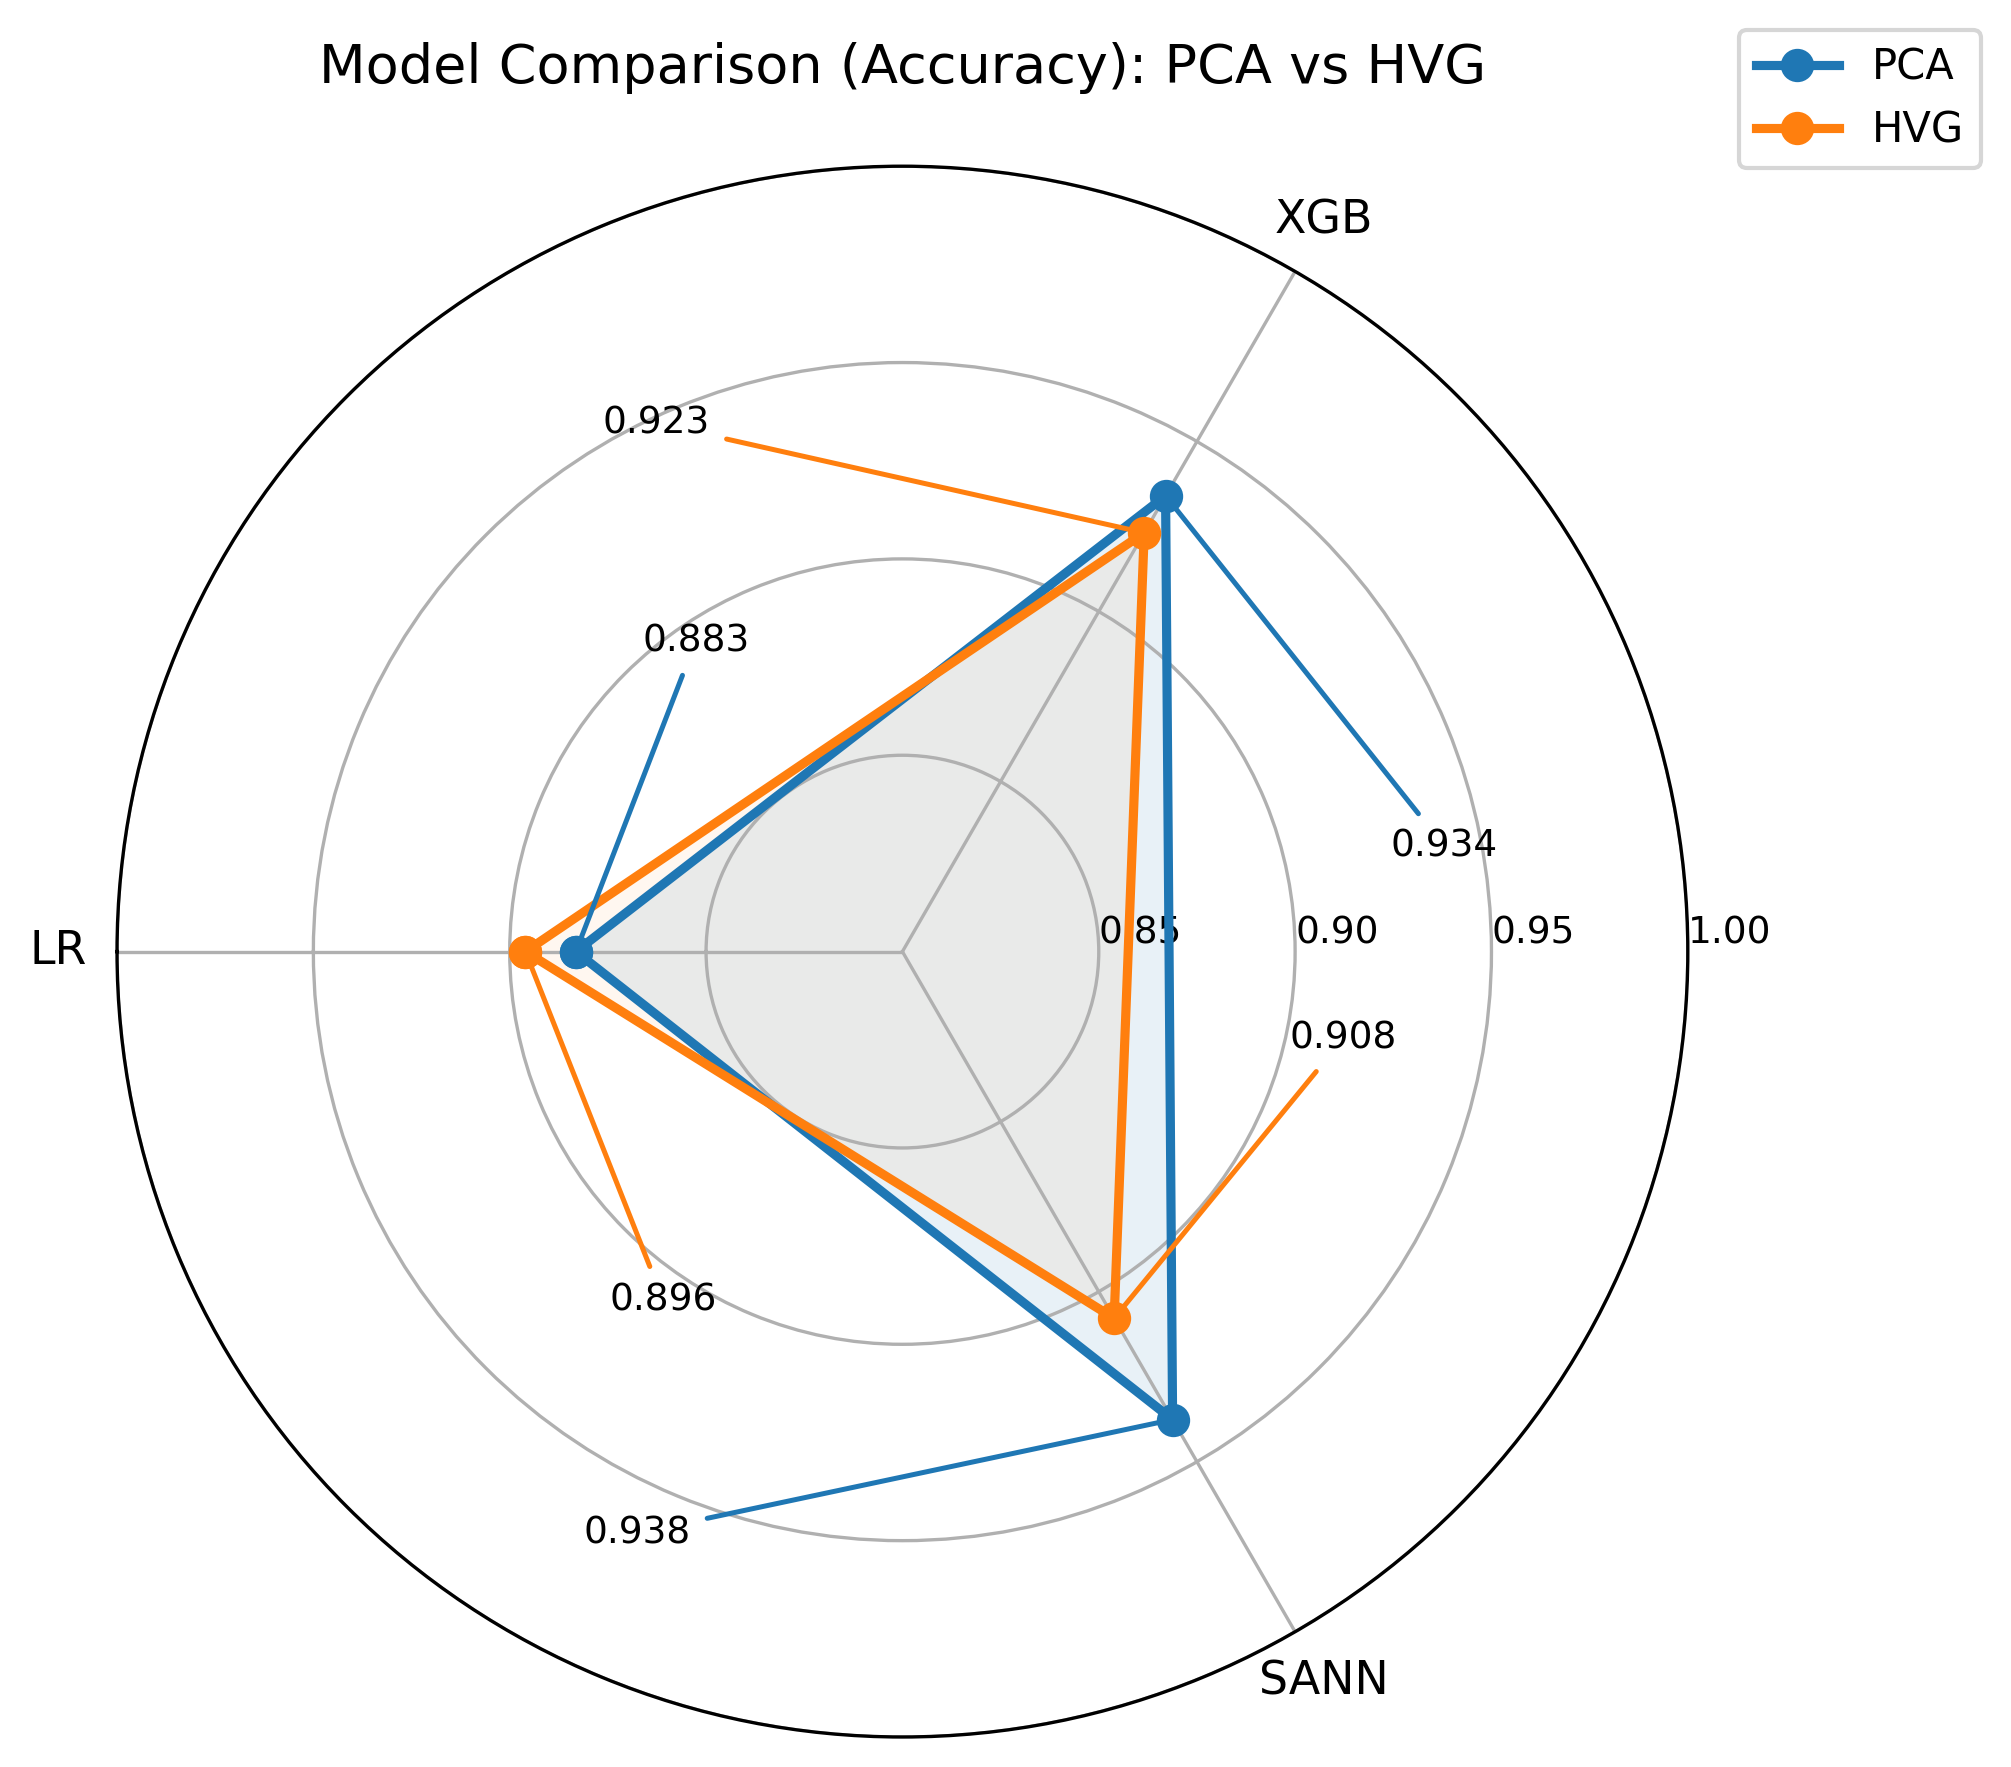
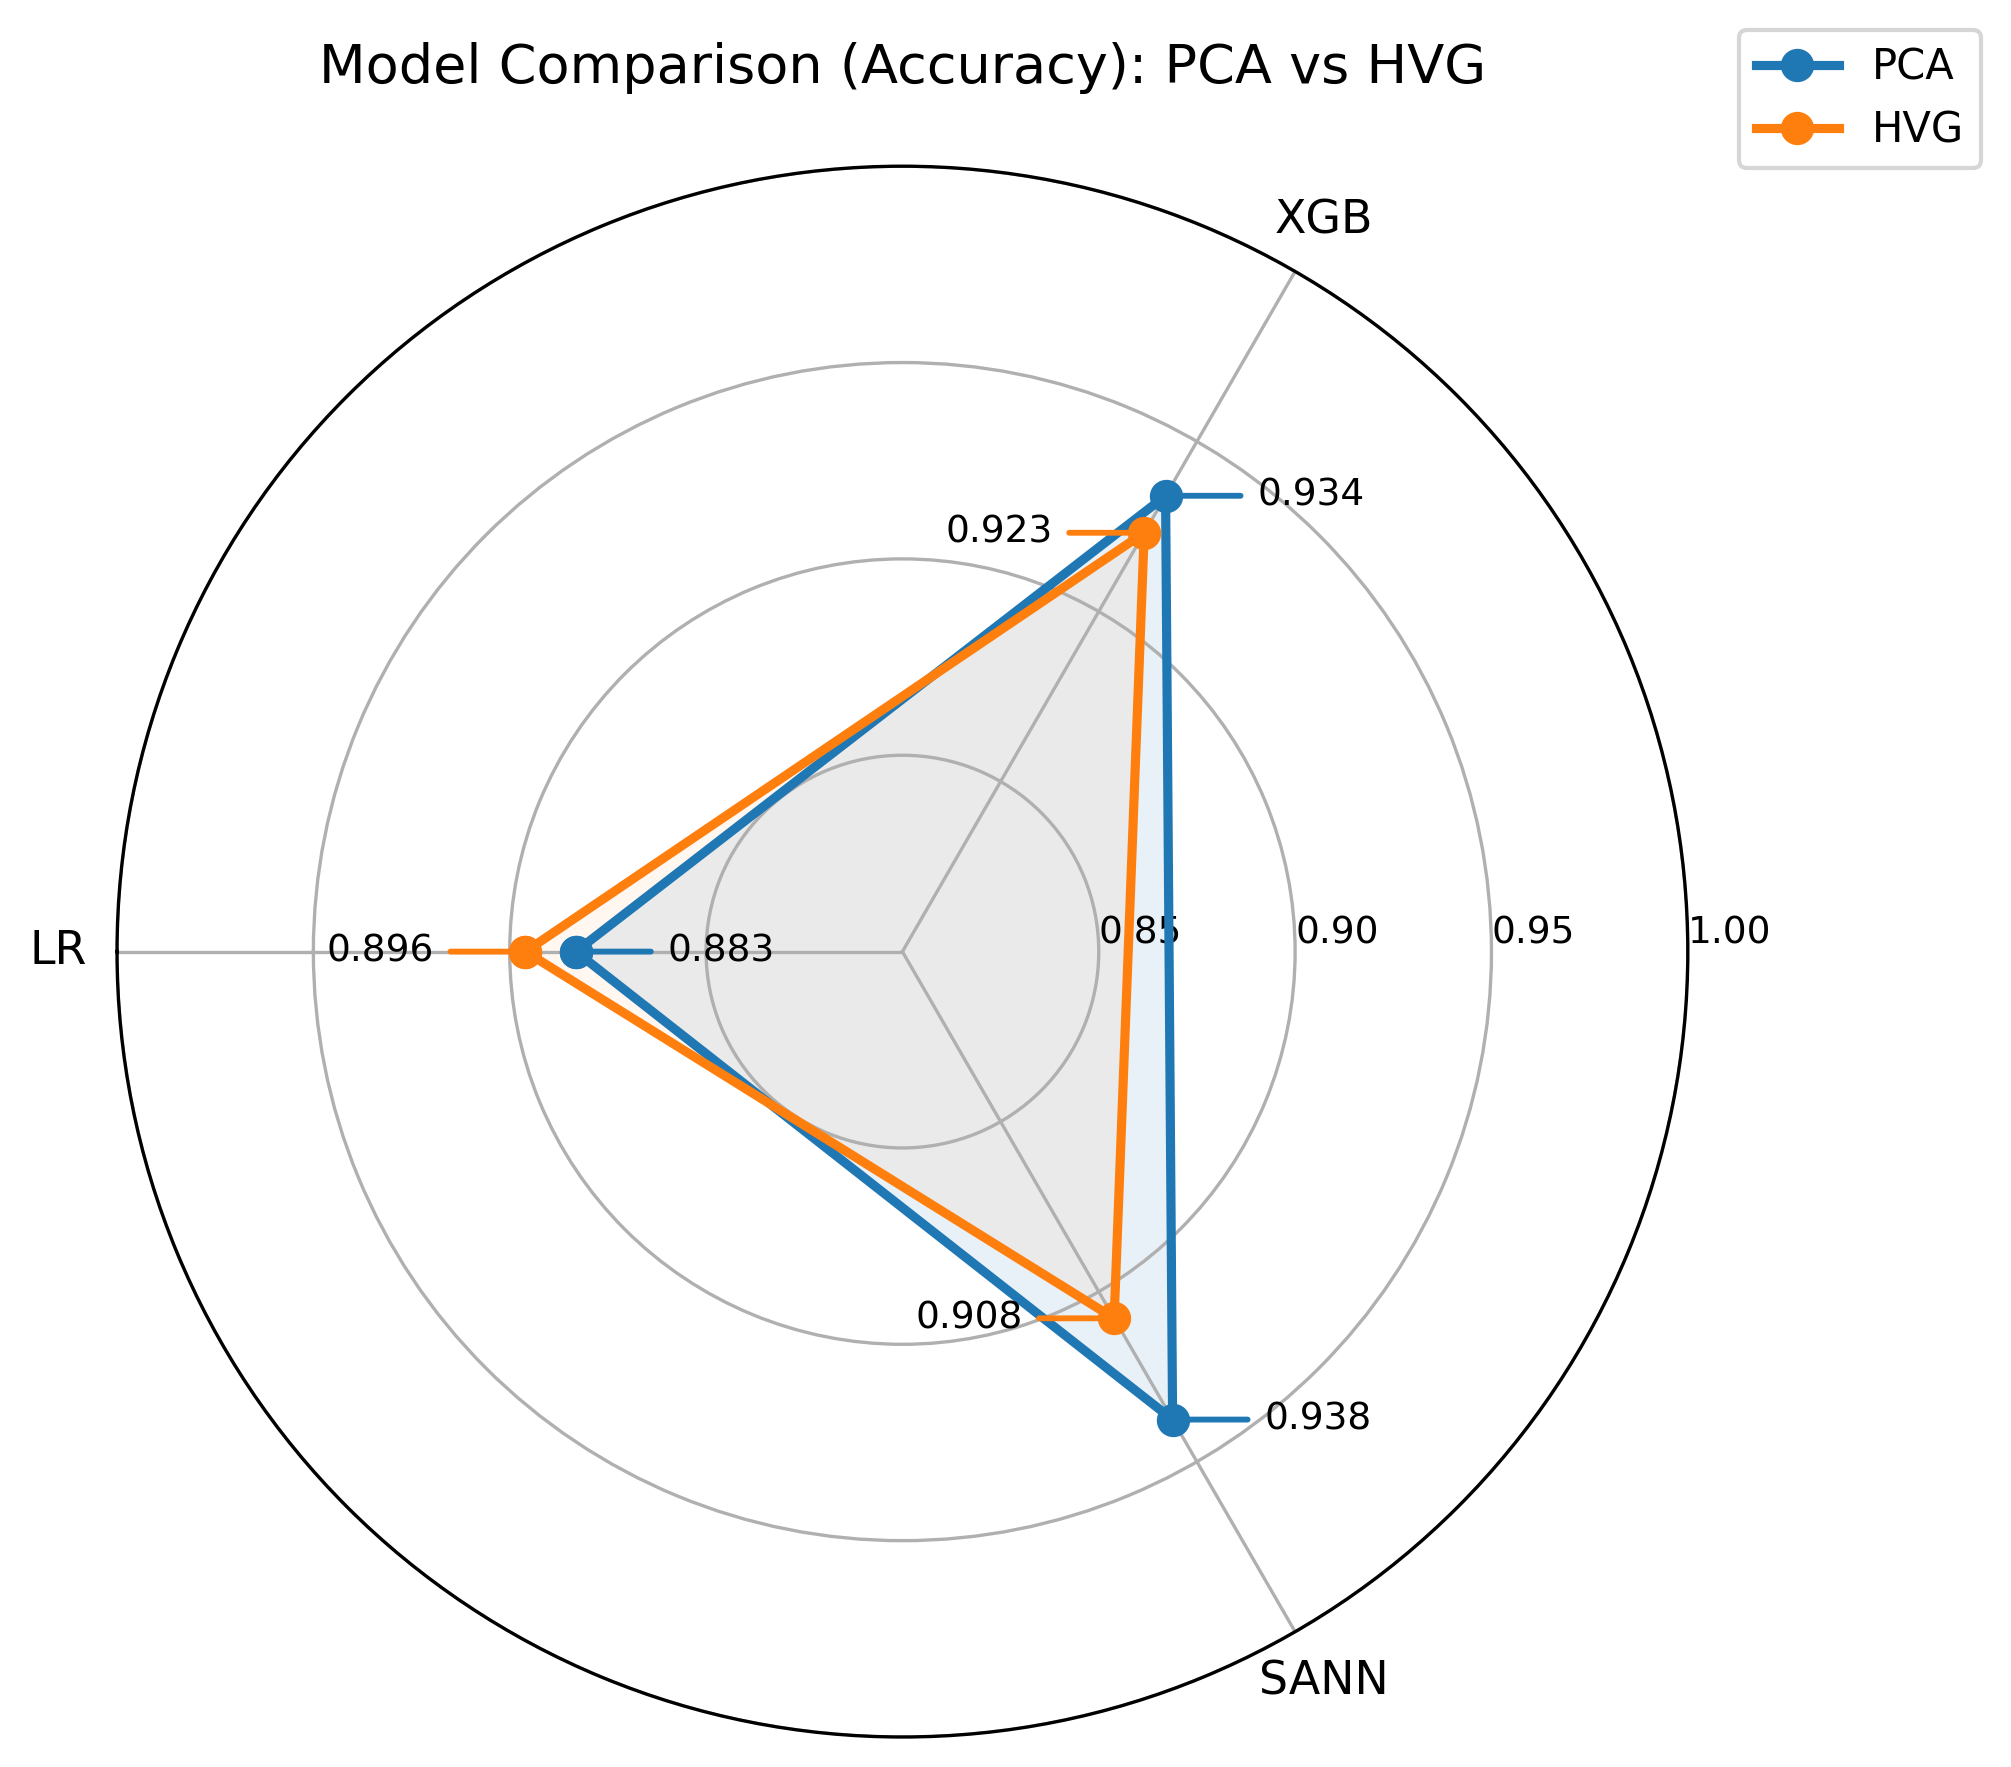
Adjusted comparison for radar graph

diff --git a/src/plot_pca_vs_hvg_radar.py b/src/plot_pca_vs_hvg_radar.py
@@ -27,6 +27,8 @@ def extract_metric(df: pd.DataFrame, metric: str):
     vals = []
     for model in MODELS:
         row = df[df["Model"] == model]
+        if row.empty:
+            raise ValueError(f"Model '{model}' not found in CSV.")
         vals.append(float(row[metric].iloc[0]))
     return vals
 
@@ -39,39 +41,38 @@ hvg_acc = extract_metric(hvg_df, "Accuracy")
 
 
 # =========================
-# LABEL FUNCTION (FIXED LENGTH)
+# LABEL FUNCTION
 # =========================
-def add_label(ax, theta, r, text, color, style="up"):
+def add_label(ax, theta, r, text, color, side="right"):
     """
-    Fixed-length outward label lines
+    Fixed-length horizontal labels:
+    - PCA (blue) goes to the right
+    - HVG (orange) goes to the left
     """
 
-    line_length = 0.02  # fixed size
-    angle_offset = np.deg2rad(50)  # 100° separation total
+    PIXEL_LENGTH = 22
 
-    if style == "up":
-        theta_text = theta + angle_offset
-    else:
-        theta_text = theta - angle_offset
-
-    r_text = min(r + line_length, 1.0)
-
-    if np.cos(theta) >= 0:
+    if side == "right":
+        dx = PIXEL_LENGTH
         ha = "left"
     else:
+        dx = -PIXEL_LENGTH
         ha = "right"
+
+    dy = 0
 
     ax.annotate(
         text,
         xy=(theta, r),
-        xytext=(theta_text, r_text),
+        xytext=(dx, dy),
+        textcoords="offset points",
         ha=ha,
         va="center",
         fontsize=9,
         arrowprops=dict(
             arrowstyle="-",
             color=color,
-            linewidth=1.2,
+            linewidth=1.4,
         ),
     )
 
@@ -89,13 +90,15 @@ def plot_radar(pca_vals, hvg_vals, title, filename):
 
     fig, ax = plt.subplots(figsize=(6.8, 6.8), subplot_kw=dict(polar=True))
 
-    # start at 9 o'clock
+    # Start at 9 o'clock and go clockwise
     ax.set_theta_offset(np.pi)
     ax.set_theta_direction(-1)
 
+    # Axis labels
     ax.set_xticks(angles)
     ax.set_xticklabels(MODELS, fontsize=11)
 
+    # Radial scale
     ax.set_ylim(0.8, 1.0)
     ax.set_yticks([0.85, 0.90, 0.95, 1.00])
     ax.set_yticklabels(["0.85", "0.90", "0.95", "1.00"], fontsize=9)
@@ -104,7 +107,7 @@ def plot_radar(pca_vals, hvg_vals, title, filename):
     pca_color = "tab:blue"
     hvg_color = "tab:orange"
 
-    # PCA (clean solid)
+    # PCA
     ax.plot(
         angles_closed,
         pca_closed,
@@ -116,7 +119,7 @@ def plot_radar(pca_vals, hvg_vals, title, filename):
     )
     ax.fill(angles_closed, pca_closed, color=pca_color, alpha=0.10)
 
-    # HVG (same style, no dashed)
+    # HVG
     ax.plot(
         angles_closed,
         hvg_closed,
@@ -128,10 +131,10 @@ def plot_radar(pca_vals, hvg_vals, title, filename):
     )
     ax.fill(angles_closed, hvg_closed, color=hvg_color, alpha=0.06)
 
-    # labels
+    # Labels
     for theta, pca_r, hvg_r in zip(angles, pca_vals, hvg_vals):
-        add_label(ax, theta, pca_r, f"{pca_r:.3f}", pca_color, "up")
-        add_label(ax, theta, hvg_r, f"{hvg_r:.3f}", hvg_color, "down")
+        add_label(ax, theta, pca_r, f"{pca_r:.3f}", pca_color, side="right")
+        add_label(ax, theta, hvg_r, f"{hvg_r:.3f}", hvg_color, side="left")
 
     plt.title(title, size=13, pad=20)
     plt.legend(loc="upper right", bbox_to_anchor=(1.20, 1.10))
